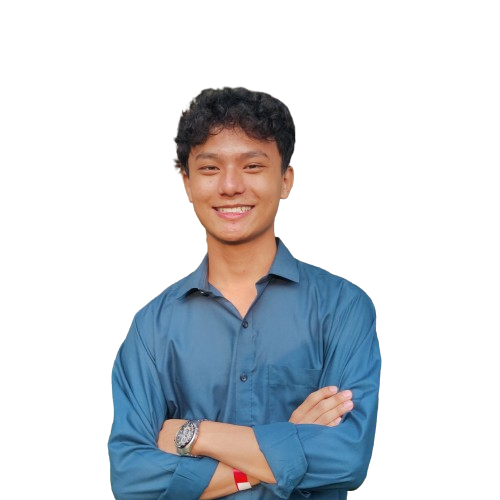
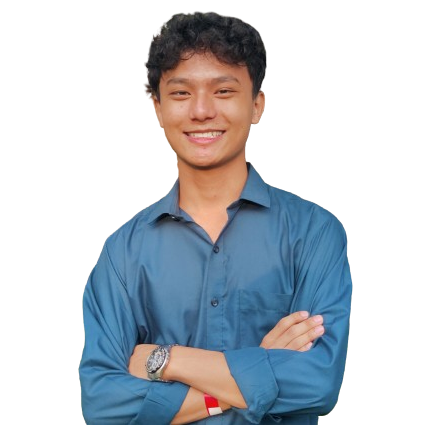
Minor changes

Changed region(s): [[0.1835, 0.0, 0.8565, 1.0]]

diff --git a/src/Components/Header/Header.js b/src/Components/Header/Header.js
@@ -2,7 +2,7 @@ import "./Header.css"
 
 function Navbar() {
   return (
-    <div className="n-wrapper">
+    <div className="n-wrapper" id="home">
       <div className="n-left">
         <div className="n-name">Jenish</div>
       </div>
@@ -10,20 +10,22 @@ function Navbar() {
         <nav className="n-list">
           <ul>
             <li>
-              <a href="">Home</a>
+              <a href="#home">Home</a>
             </li>
             <li>
-              <a href="">About Me</a>
+              <a href="#about">About Me</a>
             </li>
             <li>
-              <a href="">Skills</a>
+              <a href="#skills">Skills</a>
             </li>
             <li>
-              <a href="">Projects</a>
+              <a href="#projects">Projects</a>
             </li>
           </ul>
         </nav>
-        <button className="n-button">Contact</button>
+        <button className="n-button">
+          <a href="#contact">Contact</a>
+        </button>
       </div>
     </div>
   );

diff --git a/src/Components/Skills/Skills.js b/src/Components/Skills/Skills.js
@@ -6,7 +6,7 @@ import "./skills.css";
 
 function Skills() {
     return (
-      <div className="skills">
+      <div className="skills" id="skills">
         <h1>Skills</h1>
         <div className="progress-cont">
           <ProgressBar percent={100} name={"HTML"} />

diff --git a/src/Components/Contact/Contact.js b/src/Components/Contact/Contact.js
@@ -2,7 +2,7 @@ import "./Contact.css"
 
 function Contact() {
     return (
-      <div className="form">
+      <div className="form" id="contact">
         <div className="f-left">
           <div className="f-text">
             <span>Get in touch</span>

diff --git a/src/Components/Projects/Projects.js b/src/Components/Projects/Projects.js
@@ -12,7 +12,7 @@ import "swiper/css/autoplay";
 
 function Projects() {
   return (
-    <div className="projects">
+    <div className="projects" id="projects">
       <p>
         Recent <span> Projects</span>
       </p>

diff --git a/src/Components/About/About.js b/src/Components/About/About.js
@@ -2,7 +2,7 @@ import "./About.css";
 
 function About() {
   return (
-    <div className="about">
+    <div className="about" id="about">
       <h1>About Me</h1>
       <div className="abt-cont">
         <p>

diff --git a/src/Components/Header/Header.css b/src/Components/Header/Header.css
@@ -36,10 +36,12 @@
     list-style: none;
 }
 
-.n-list>ul a{
+a{
     text-decoration: none;
     color: black;
     font-size: 1.2rem;
+    cursor: pointer;
+    z-index: 1;
 }
 
 .n-list>ul >li:hover{

diff --git a/src/Components/Intro/Intro.css b/src/Components/Intro/Intro.css
@@ -76,7 +76,7 @@
 
 .boy {
   position: relative;
-  top: 2px;
+  top: 85px;
   left: 150px;
   z-index: 1;
   scale: 1.3;
